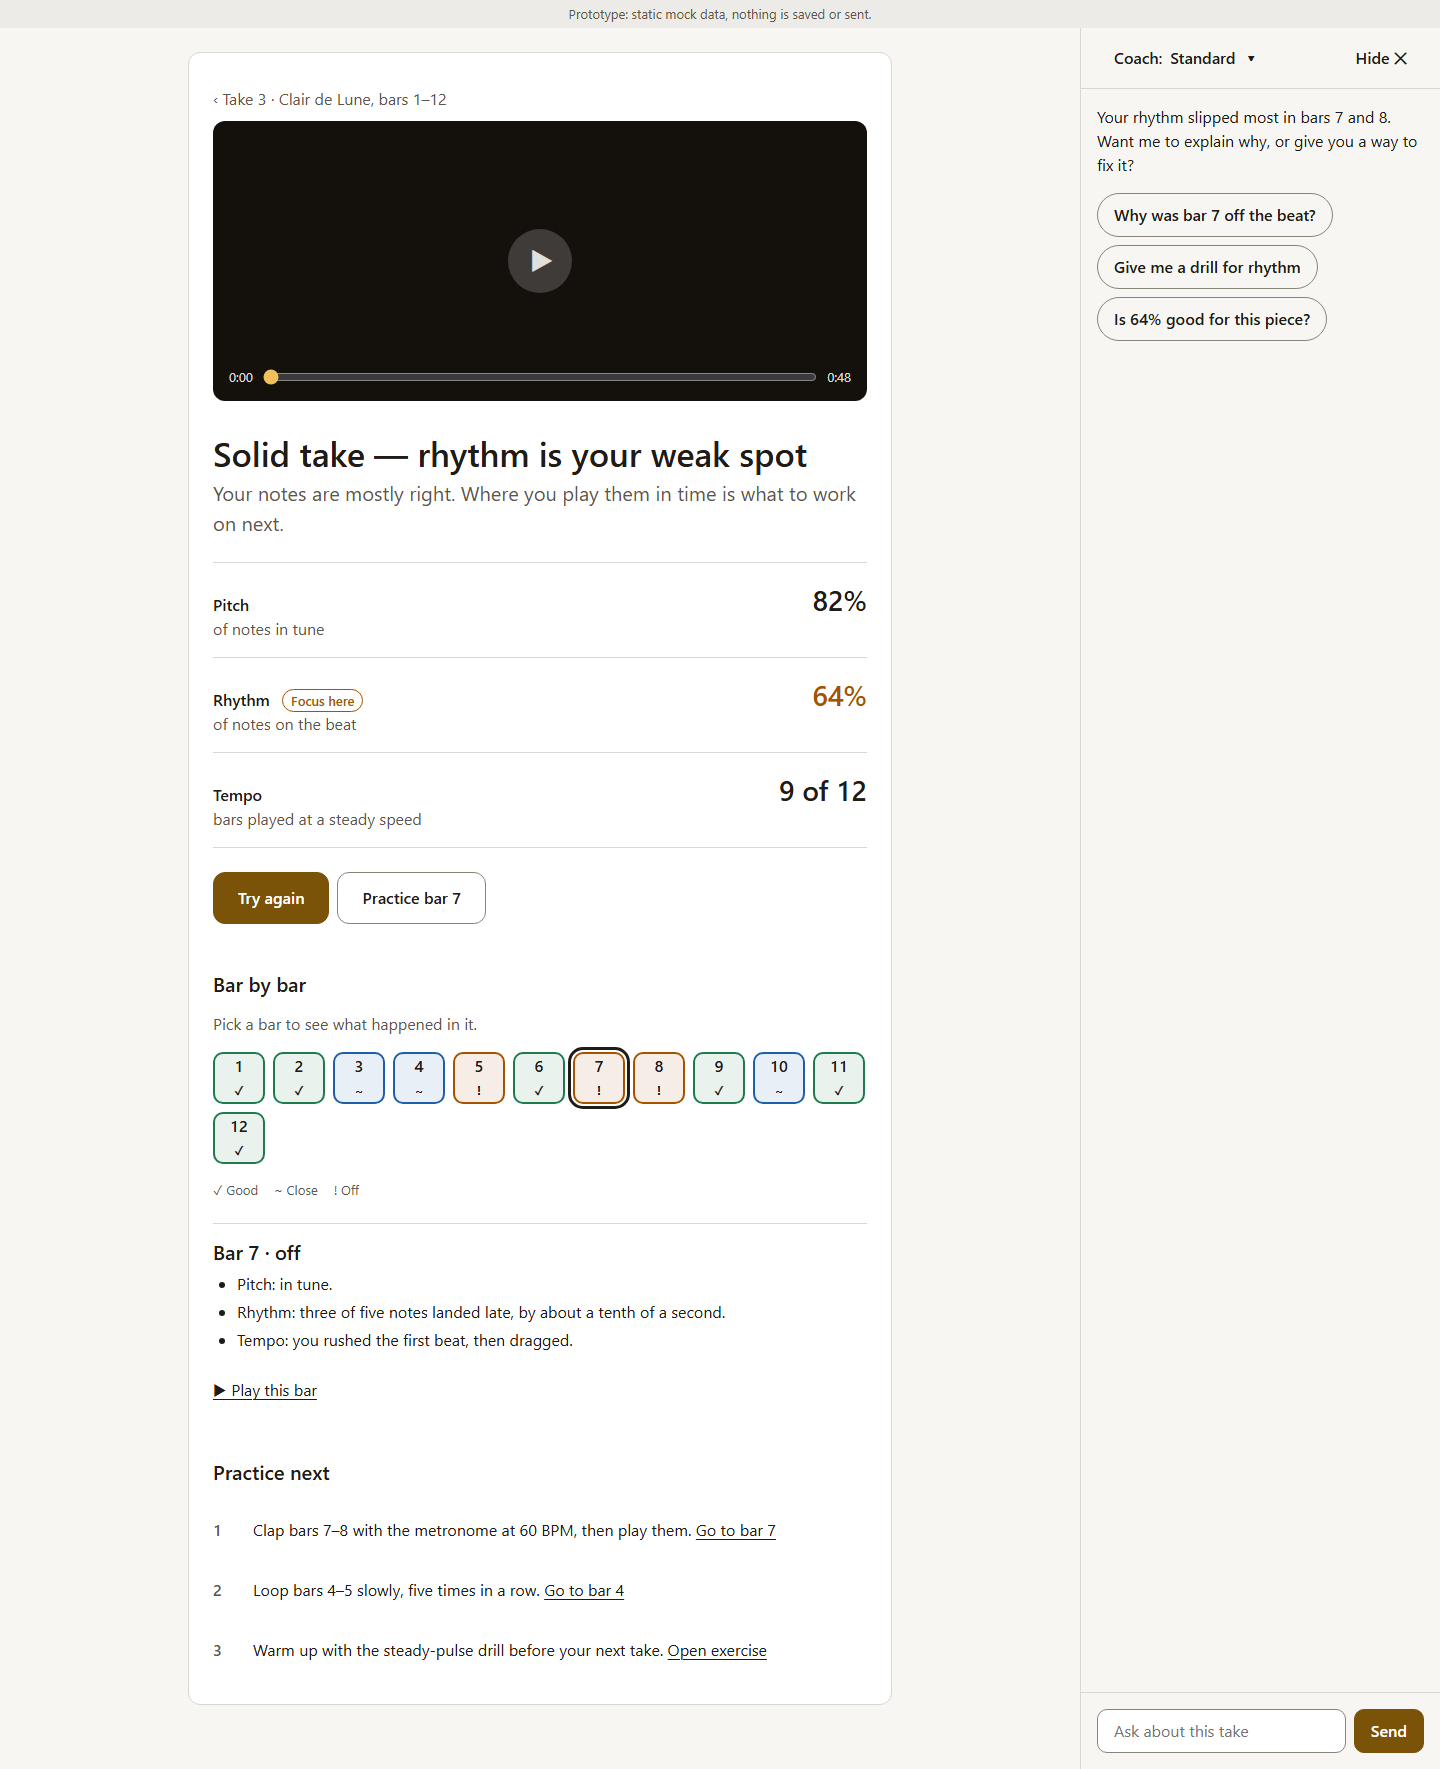
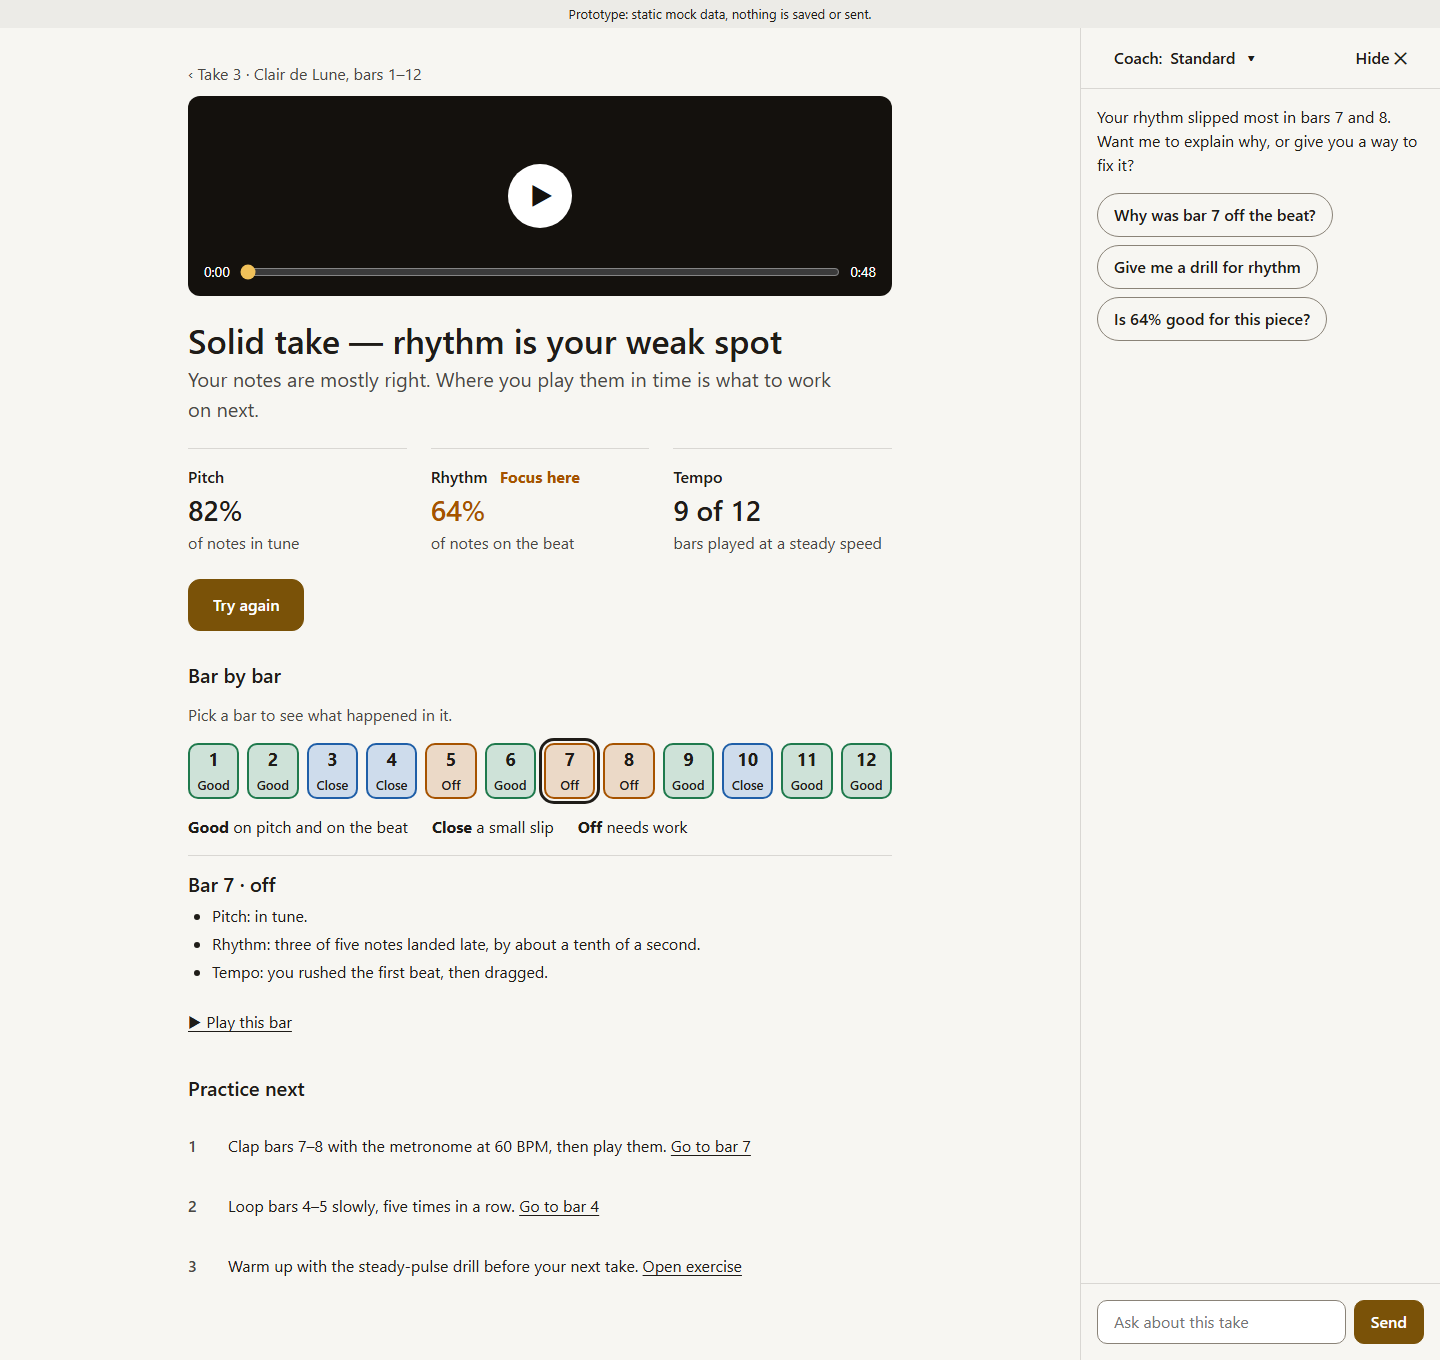
Prototype: fit desktop above the fold, labelled bar boxes, flat styling, higher contrast, mobile coach-sheet shots

diff --git a/frontend/dev/prototype/results.html b/frontend/dev/prototype/results.html
@@ -9,8 +9,10 @@
   <link rel="stylesheet" href="../../css/app.css">
   <link rel="stylesheet" href="../../css/components.css">
   <style>
+    :root { --fill: 22%; --soft-ink: color-mix(in srgb, var(--ink) 80%, var(--bg)); }
     /* The design system switches dark mode with prefers-color-scheme only; this mirrors its dark tokens for ?theme=dark. */
     html[data-theme="dark"] {
+      --fill: 32%;
       color-scheme: dark;
       --bg: #161412; --surface: #211e1b; --ink: #f2eee7; --muted: #b5aea3; --line-strong: #7d766b;
       --accent: #d4a340; --primary-ink: #161412; --primary-hover: #e2b459;
@@ -23,54 +25,55 @@
       --ok: #1f7a4d; --flat: #1f5fa8; --sharp: #a65300; --error: #b3261e; --shadow-color: 31 28 24;
     }
 
-    .proto-note { margin: 0; padding: var(--sp-1) var(--page-pad); background: var(--surface-2); color: var(--muted); font-size: var(--fs-caption); text-align: center; }
+    .proto-note { margin: 0; padding: var(--sp-1) var(--page-pad); background: var(--surface-2); color: var(--ink); font-size: var(--fs-caption); text-align: center; }
     .layout { display: flex; align-items: flex-start; min-height: calc(100dvh - 28px); }
     .main { flex: 1; min-width: 0; padding: var(--sp-4) var(--page-pad) var(--sp-7); }
-    .main-inner { max-width: 44rem; margin: 0 auto; }
-    .back { display: inline-flex; align-items: center; min-height: var(--tap); color: var(--muted); text-decoration: none; }
+    .main > .main-inner { max-width: 44rem; margin: 0 auto; padding: 0; background: none; border: 0; border-radius: 0; box-shadow: none; } /* undo the design system's card surface for main > div */
+    .back { display: inline-flex; align-items: center; min-height: var(--tap); color: var(--soft-ink); text-decoration: none; }
 
     /* 1. Recording: a poster with a play button and a scrubber, above the verdict */
     .player { position: relative; aspect-ratio: 16 / 9; border-radius: var(--radius-card); background: var(--media-bg); color: var(--on-media); overflow: hidden; }
     .player-play { position: absolute; inset: 0; display: grid; place-items: center; width: 100%; border: 0; background: transparent; color: inherit; cursor: pointer; }
-    .player-play span { display: grid; place-items: center; width: 64px; height: 64px; border-radius: 50%; background: rgb(255 255 255 / 0.18); font-size: 26px; padding-left: 4px; }
-    .player-bar { position: absolute; left: 0; right: 0; bottom: 0; display: flex; align-items: center; gap: var(--sp-2); padding: 0 var(--sp-3); font-size: var(--fs-caption); }
+    .player-play span { display: grid; place-items: center; width: 64px; height: 64px; border-radius: 50%; background: #ffffff; color: var(--media-bg); font-size: 26px; padding-left: 4px; }
+    .player-bar { position: absolute; left: 0; right: 0; bottom: 0; display: flex; align-items: center; gap: var(--sp-2); padding: 0 var(--sp-3); font-size: 14px; color: #ffffff; }
     .player-bar input { flex: 1; min-height: var(--tap); accent-color: var(--on-media-accent); }
-    .player-caption { margin: var(--sp-2) 0 0; font-size: var(--fs-caption); color: var(--muted); }
-
+    
     /* 2. Verdict and labelled scores */
-    .verdict h1 { margin: var(--sp-5) 0 var(--sp-1); }
-    .verdict .lead { margin: 0; color: var(--muted); font-size: var(--fs-headline); }
+    .verdict h1 { margin: var(--sp-4) 0 var(--sp-1); }
+    .verdict .lead { margin: 0; color: var(--soft-ink); font-size: var(--fs-headline); }
     .scores { margin: var(--sp-4) 0 0; padding: 0; list-style: none; border-top: 1px solid var(--line); }
     .scores li { display: grid; grid-template-columns: 1fr auto; align-items: baseline; gap: 0 var(--sp-3); padding: var(--sp-3) 0; border-bottom: 1px solid var(--line); }
     .scores .name { font-weight: 600; }
-    .scores .what { grid-column: 1; color: var(--muted); }
+    .scores .what { grid-column: 1; color: var(--soft-ink); }
     .scores .value { grid-row: 1 / span 2; grid-column: 2; font-size: var(--fs-title); font-weight: 600; text-align: right; }
-    .focus-tag { margin-left: var(--sp-2); padding: 2px var(--sp-2); border-radius: var(--radius-pill); border: 1.5px solid var(--sharp); color: var(--sharp); font-size: var(--fs-caption); font-weight: 600; white-space: nowrap; }
+        .focus-tag { margin-left: var(--sp-2); color: var(--sharp); font-weight: 700; white-space: nowrap; } /* plain text, not a pill */
     .scores li.is-focus .value { color: var(--sharp); }
     .actions { display: flex; flex-wrap: wrap; gap: var(--sp-2); margin-top: var(--sp-4); }
 
     /* 4. Bar boxes */
-    .bars-head { margin-top: var(--sp-6); }
-    .bars-head p { margin: 0; color: var(--muted); }
-    .bar-row { display: flex; flex-wrap: wrap; gap: var(--sp-2); margin: var(--sp-3) 0 0; padding: 0; list-style: none; }
-    .bar-box { display: flex; flex-direction: column; align-items: center; justify-content: center; width: 52px; min-height: 52px; padding: 0; border: 2px solid var(--line-strong); border-radius: var(--radius); background: var(--surface); color: var(--ink); font: inherit; font-weight: 600; line-height: 1.15; cursor: pointer; }
-    .bar-box small { font-size: 12px; font-weight: 700; }
-    .bar-box[data-level="good"] { border-color: var(--ok); background: var(--ok-soft); }
-    .bar-box[data-level="ok"]   { border-color: var(--flat); background: var(--flat-soft); }
-    .bar-box[data-level="off"]  { border-color: var(--sharp); background: var(--sharp-soft); }
+    .bars-head { margin-top: var(--sp-5); }
+    .bars-head h2 { margin-top: 0; }
+    .bars-head p { margin: 0; color: var(--soft-ink); }
+    .bar-row { display: grid; grid-template-columns: repeat(6, 1fr); gap: var(--sp-2); margin: var(--sp-3) 0 0; padding: 0; list-style: none; }
+    .bar-box { display: flex; flex-direction: column; align-items: center; justify-content: center; width: 100%; min-height: 56px; padding: 0; border: 2px solid var(--line-strong); border-radius: var(--radius); background: var(--surface); color: var(--ink); font: inherit; font-weight: 600; line-height: 1.15; cursor: pointer; }
+    .bar-box .num { font-size: 18px; font-weight: 700; }
+    .bar-box .word { font-size: var(--fs-caption); font-weight: 600; }
+    .bar-box[data-level="good"] { border-color: var(--ok); background: color-mix(in srgb, var(--ok) var(--fill), var(--surface)); }
+    .bar-box[data-level="ok"]   { border-color: var(--flat); background: color-mix(in srgb, var(--flat) var(--fill), var(--surface)); }
+    .bar-box[data-level="off"]  { border-color: var(--sharp); background: color-mix(in srgb, var(--sharp) var(--fill), var(--surface)); }
     .bar-box[aria-pressed="true"] { outline: 3px solid var(--ink); outline-offset: 2px; }
-    .legend { display: flex; flex-wrap: wrap; gap: var(--sp-3); margin: var(--sp-3) 0 0; color: var(--muted); font-size: var(--fs-caption); }
-    .detail { margin-top: var(--sp-4); padding-top: var(--sp-3); border-top: 1px solid var(--line); }
+    .legend { display: flex; flex-wrap: wrap; gap: var(--sp-1) var(--sp-4); margin: var(--sp-3) 0 0; color: var(--ink); font-size: var(--fs-body); }
+    .detail { margin-top: var(--sp-3); padding-top: var(--sp-3); border-top: 1px solid var(--line); }
     .detail h3 { font-size: var(--fs-headline); margin: 0 0 var(--sp-2); }
     .detail ul { margin: 0 0 var(--sp-3); padding-left: var(--sp-4); }
     .detail li { margin-bottom: var(--sp-1); }
     .link-btn { display: inline-flex; align-items: center; min-height: var(--tap); }
 
     /* 5. Practice plan */
-    .plan { margin-top: var(--sp-6); }
+    .plan { margin-top: var(--sp-5); }
     .plan ol { margin: 0; padding: 0; list-style: none; counter-reset: step; }
     .plan li { display: flex; gap: var(--sp-3); align-items: baseline; padding: var(--sp-2) 0; counter-increment: step; }
-    .plan li::before { content: counter(step); flex: none; width: 1.5em; font-weight: 600; color: var(--muted); }
+    .plan li::before { content: counter(step); flex: none; width: 1.5em; font-weight: 600; color: var(--soft-ink); }
     .plan a { display: inline-flex; align-items: center; min-height: var(--tap); }
 
     /* 3. Coach: a docked panel on wide screens, a bottom sheet on narrow ones */
@@ -82,7 +85,7 @@
     .menu-list button:hover { background: var(--surface-2); }
     .coach-body { flex: 1; overflow-y: auto; padding: var(--sp-3); }
     .turn { margin: 0 0 var(--sp-3); }
-    .turn.you { text-align: right; color: var(--muted); }
+    .turn.you { text-align: right; color: var(--soft-ink); }
     .chips { display: flex; flex-direction: column; align-items: flex-start; gap: var(--sp-2); }
     .coach-foot { display: flex; gap: var(--sp-2); padding: var(--sp-3); border-top: 1px solid var(--line); }
     .coach-foot input { flex: 1; min-width: 0; min-height: var(--tap); padding: 0 var(--sp-3); border: 1px solid var(--line-strong); border-radius: var(--radius); background: var(--surface); color: var(--ink); font: inherit; }
@@ -100,7 +103,13 @@
       .main { padding-bottom: 96px; }
     }
     @media (min-width: 901px) {
-      .player { aspect-ratio: 21 / 9; }
+      .player { aspect-ratio: auto; height: 200px; }
+      .scores { display: grid; grid-template-columns: repeat(3, 1fr); gap: var(--sp-4); }
+      .scores li { display: flex; flex-direction: column; align-items: flex-start; gap: 0; padding: var(--sp-3) 0 0; border-bottom: 0; }
+      .scores .value { text-align: left; }
+      .scores { border-top: 0; }
+      .scores li { border-top: 1px solid var(--line); }
+      .bar-row { grid-template-columns: repeat(12, minmax(44px, 1fr)); }
       .coach-toggle-open { display: none; }
       .coach-toggle-open.is-wide-visible { display: block; }
       .coach.is-collapsed { display: none; }
@@ -138,7 +147,6 @@
           </ul>
           <div class="actions">
             <button class="btn btn-primary btn-lg" type="button">Try again</button>
-            <button class="btn btn-lg" type="button">Practice bar 7</button>
           </div>
         </section>
 
@@ -149,7 +157,7 @@
             <p>Pick a bar to see what happened in it.</p>
           </div>
           <ul class="bar-row" id="bar-row" role="list"></ul>
-          <p class="legend" aria-hidden="true"><span>✓ Good</span><span>~ Close</span><span>! Off</span></p>
+          <p class="legend"><span><b>Good</b> on pitch and on the beat</span><span><b>Close</b> a small slip</span><span><b>Off</b> needs work</span></p>
           <div class="detail" id="detail" aria-live="polite"></div>
         </section>
 
@@ -214,7 +222,7 @@
       { level: 'good', notes: ['Pitch: all notes in tune.', 'Rhythm: on the beat.', 'Tempo: steady.'] },
       { level: 'good', notes: ['Pitch: all notes in tune.', 'Rhythm: on the beat.', 'Tempo: steady.'] },
     ];
-    const SYMBOL = { good: '✓', ok: '~', off: '!' };
+    const LABEL = { good: 'Good', ok: 'Close', off: 'Off' };
     const WORD = { good: 'good', ok: 'close', off: 'off' };
 
     const row = document.getElementById('bar-row');
@@ -222,7 +230,7 @@
     BARS.forEach((bar, i) => {
       const n = i + 1;
       const li = document.createElement('li');
-      li.innerHTML = `<button class="bar-box" type="button" data-level="${bar.level}" data-bar="${n}" aria-pressed="false" aria-label="Bar ${n}, ${WORD[bar.level]}">${n}<small aria-hidden="true">${SYMBOL[bar.level]}</small></button>`;
+      li.innerHTML = `<button class="bar-box" type="button" data-level="${bar.level}" data-bar="${n}" aria-pressed="false" aria-label="Bar ${n}, ${WORD[bar.level]}"><span class="num">${n}</span><span class="word" aria-hidden="true">${LABEL[bar.level]}</span></button>`;
       row.appendChild(li);
     });
     const boxes = [...row.querySelectorAll('.bar-box')];
